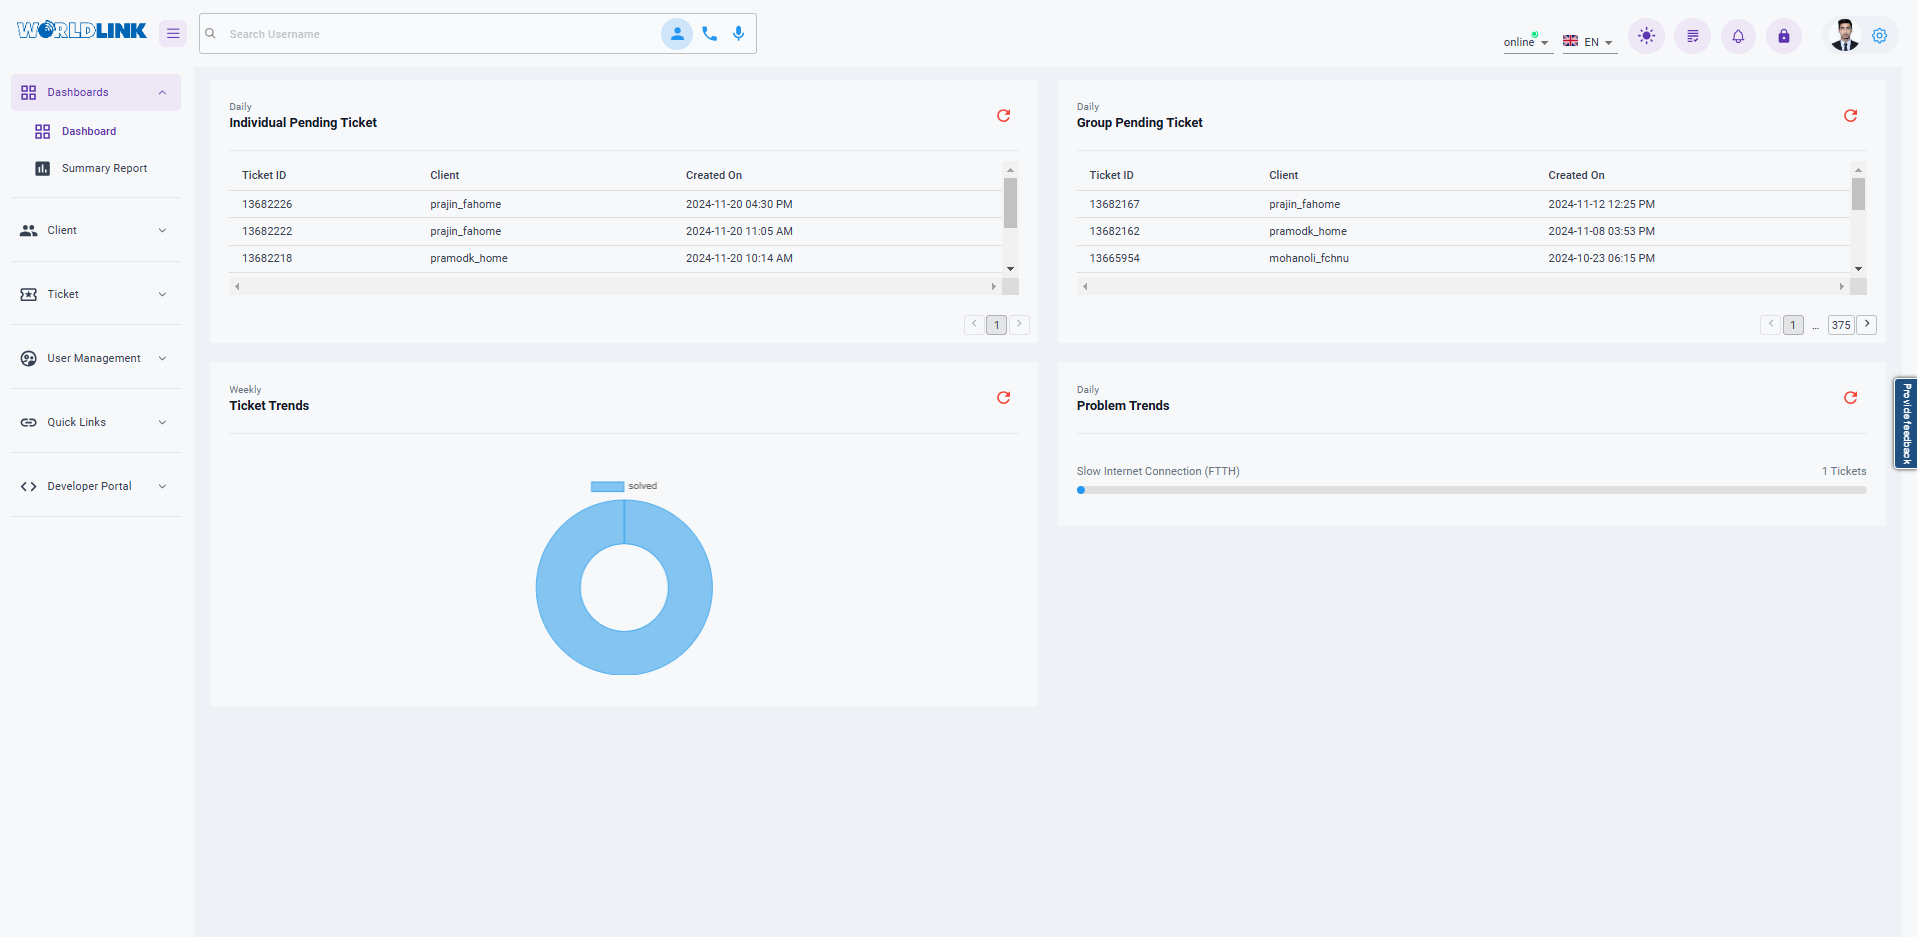
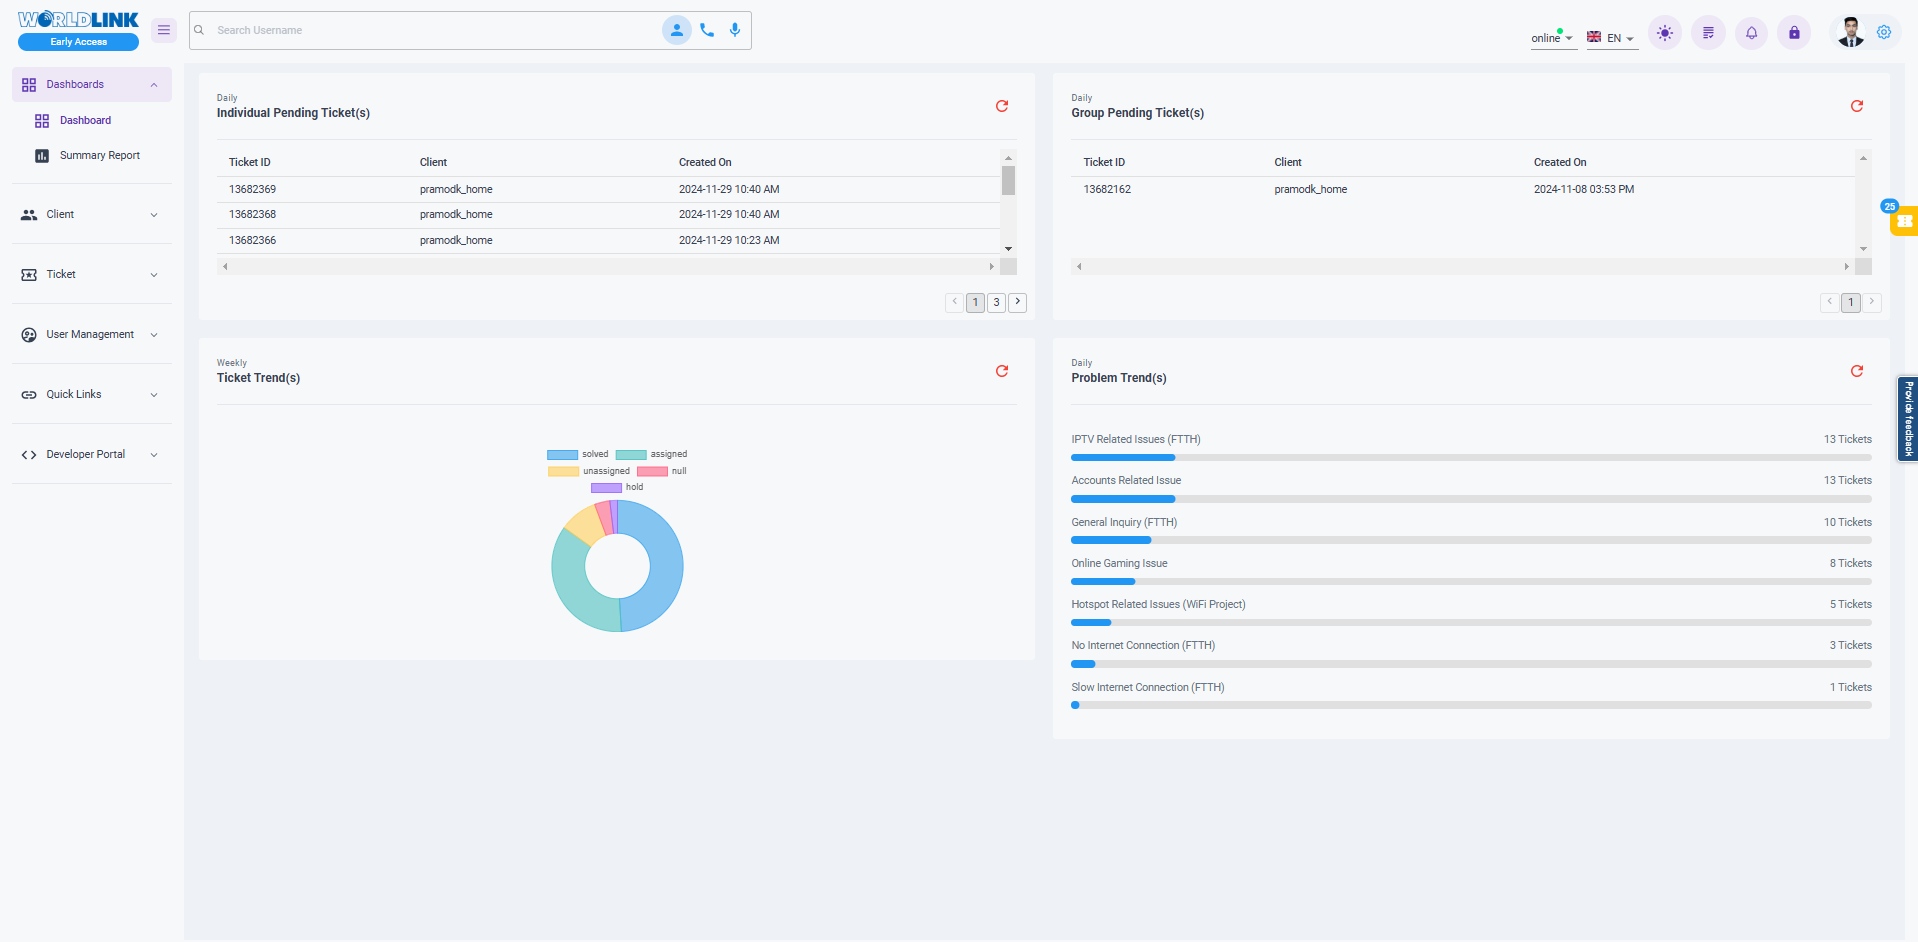
Customer search dashboard/Customer details

diff --git a/docs/customer-details.md b/docs/customer-details.md
@@ -1,0 +1,104 @@
+# Customer Details
+![Customer Details](img/customer-details.png){ style="display: block; margin: auto;" }
+
+<div align="center">
+<i style="font-size: 14px; color: grey;">Fig. Customer Details</i>
+</div>
+
+This is the section where you can find the details of the customer which includes: Contact Information, Branch information, Plan Information, Accout Information and more.
+
+## More
+
+![More](img/more-options.png){ style="display: block; margin: auto;" }
+
+<div align="center">
+<i style="font-size: 14px; color: grey;">Fig. More Options</i>
+</div>
+
+By clicking on the more option you will find the following features:
+
+1. Reset Password.
+1. Send Notification.
+1. Add Preferred Languages.
+1. Quick Links.
+
+### Reset Password
+
+This is the feature through which you can reset the Online Service Password(OSP) of the client. Once you click on this option, it will ask you for confirmation.
+
+![Reset Password Confirmation](img/reset-password-prompt.png){ style="display: block; margin: auto;" }
+
+<div align="center">
+<i style="font-size: 14px; color: grey;">Fig. Reset Password</i>
+</div>
+
+As soon as you click on **`Reset`** the password will be sent to the primary contact number.
+
+### Send Notifications
+
+This is the feature through which you can send notifications to the client's both primary and secondary contact numbers from the available templates. 
+
+![Send Notifications](img/send-notifications.png){ style="display: block; margin: auto;" }
+
+<div align="center">
+<i style="font-size: 14px; color: grey;">Fig. Send Notifications</i>
+</div>
+
+### Add Preferred Languages
+
+This feature enables you to add the language preferred by the client for communication. You can select multiple languages available in the list.
+
+![Add Preferred Languages](img/add-preferred-languages.png){ style="display: block; margin: auto;" }
+
+<div align="center">
+<i style="font-size: 14px; color: grey;">Fig. Send Notifications</i>
+</div>
+
+Once the languages are updated, it will be shown in the customer details section:
+
+![Preferred Languages](img/preferred-languages.png){ style="display: block; margin: auto;" }
+
+<div align="center">
+<i style="font-size: 14px; color: grey;">Fig. Preferred Languages</i>
+</div>
+
+
+### Quick Links
+
+The feature allows you to access other applications without having to enter URLs manually. It currently consists of 4 applications:
+
+1. Client Followup (CFU).
+1. Retail Billing.
+1. NetTv Dashboard.
+1. CRM 360.
+
+
+<!-- NEED TO CHANGE IMAGE -->
+![Quick Links](img/customer-quick-links.png){ style="display: block; margin: auto;" }
+
+<div align="center">
+<i style="font-size: 14px; color: grey;">Fig. Quick Links</i>
+</div>
+
+## Plan Information
+
+This section provides information about the package the client is currently subscribed to. It is divided into two subsections: Package Details and Other Packages.
+
+![Plan Information](img/plan-information.png){ style="display: block; margin: auto;" }
+
+<div align="center">
+<i style="font-size: 14px; color: grey;">Fig. Plan Information</i>
+</div>
+
+### Package Details
+ This sections contains detailed information about the package which includes Duration, Number of NetTv that can be added, Price and more.
+
+![Package Detials](img/package-details.png){ style="display: block; margin: auto;" }
+
+<div align="center">
+<i style="font-size: 14px; color: grey;">Fig. Package Details</i>
+</div>
+
+### Other Packages
+ This section allows you to compare between different packages. It provides a list of packages that the client can change to with different bandwidth and price plans.
+

diff --git a/docs/getting_started.md b/docs/getting_started.md
@@ -2,7 +2,7 @@
 
 ## Login to cSupport Dashboard
 
-Unlike eSupport, which had a separate login page, cSupport now uses Worldlink's OAuth authorization  [`https://login.wlink.com.np`](https://login.wlink.com.np) the same system used for logging into other internal applications. This means you can enjoy a smooth, hassle-free login experience. With OAuth, you only need to sign in once, and you’re automatically granted access to cSupport and other internal tools. You can directly visit  [`https://csupport-dashboard.wlink.com.np`](https://csupport-dashboard.wlink.com.np) as well.
+Unlike eSupport, which had a separate login page, cSupport now uses Worldlink's OAuth authorization  [`https://login.wlink.com.np`](https://login.wlink.com.np) the same system used for logging into other internal applications. This means you can enjoy a smooth, hassle-free login experience. With OAuth, you only need to sign in once, and you’re automatically granted access to cSupport and other internal tools. You can directly visit  [`https://csupport.wlink.com.np`](https://csupport.wlink.com.np) as well.
 
 ![Login Image](img/login-page.png)
 

diff --git a/docs/index.md b/docs/index.md
@@ -4,7 +4,7 @@ This is the official user guide for Customer Support System (cSupport). This gui
 
 ## What is cSupport?
 
-Welcome to cSupport, the next step forward in customer support systems. As the upgraded version of <span style="color: lightblue;">**eSupport**</span>, cSupport brings you a smoother, smarter, and more powerful platform to make your support tasks easier and more effective.
+Welcome to cSupport, the next step forward in customer support systems. As the upgraded version of <span style="color: #2f90cf;">**eSupport**</span>, cSupport brings you a smoother, smarter, and more powerful platform to make your support tasks easier and more effective.
 
 cSupport is not just an upgrade; it’s a reimagined approach to customer support, engineered to meet the growing demands of modern customer service operations. cSupport gives you all the tools you need in one place to provide an outstanding support experiences.
 

diff --git a/docs/ticket-details.md b/docs/ticket-details.md
@@ -36,3 +36,12 @@ This section features a pie chart that visualizes ticket trends over the past we
 </div>
 
 This section provides with the count of tickets that have been opened in the specific problem type.
+
+## Pending Ticket Count
+
+![Daily Problem Trends](img/pending-ticket-count.png){ style="display: block; margin: auto;" }
+<div align="center">
+<i style="font-size: 14px; color: grey">Fig. Pending Ticket Count</i>
+</div>
+
+This icon will be displayed everywhere in the application. It will show the number of tickets that has currently been assigned to you. Clicking on it will redirect you to the [User Dashboard.](user-dashboard.md)
